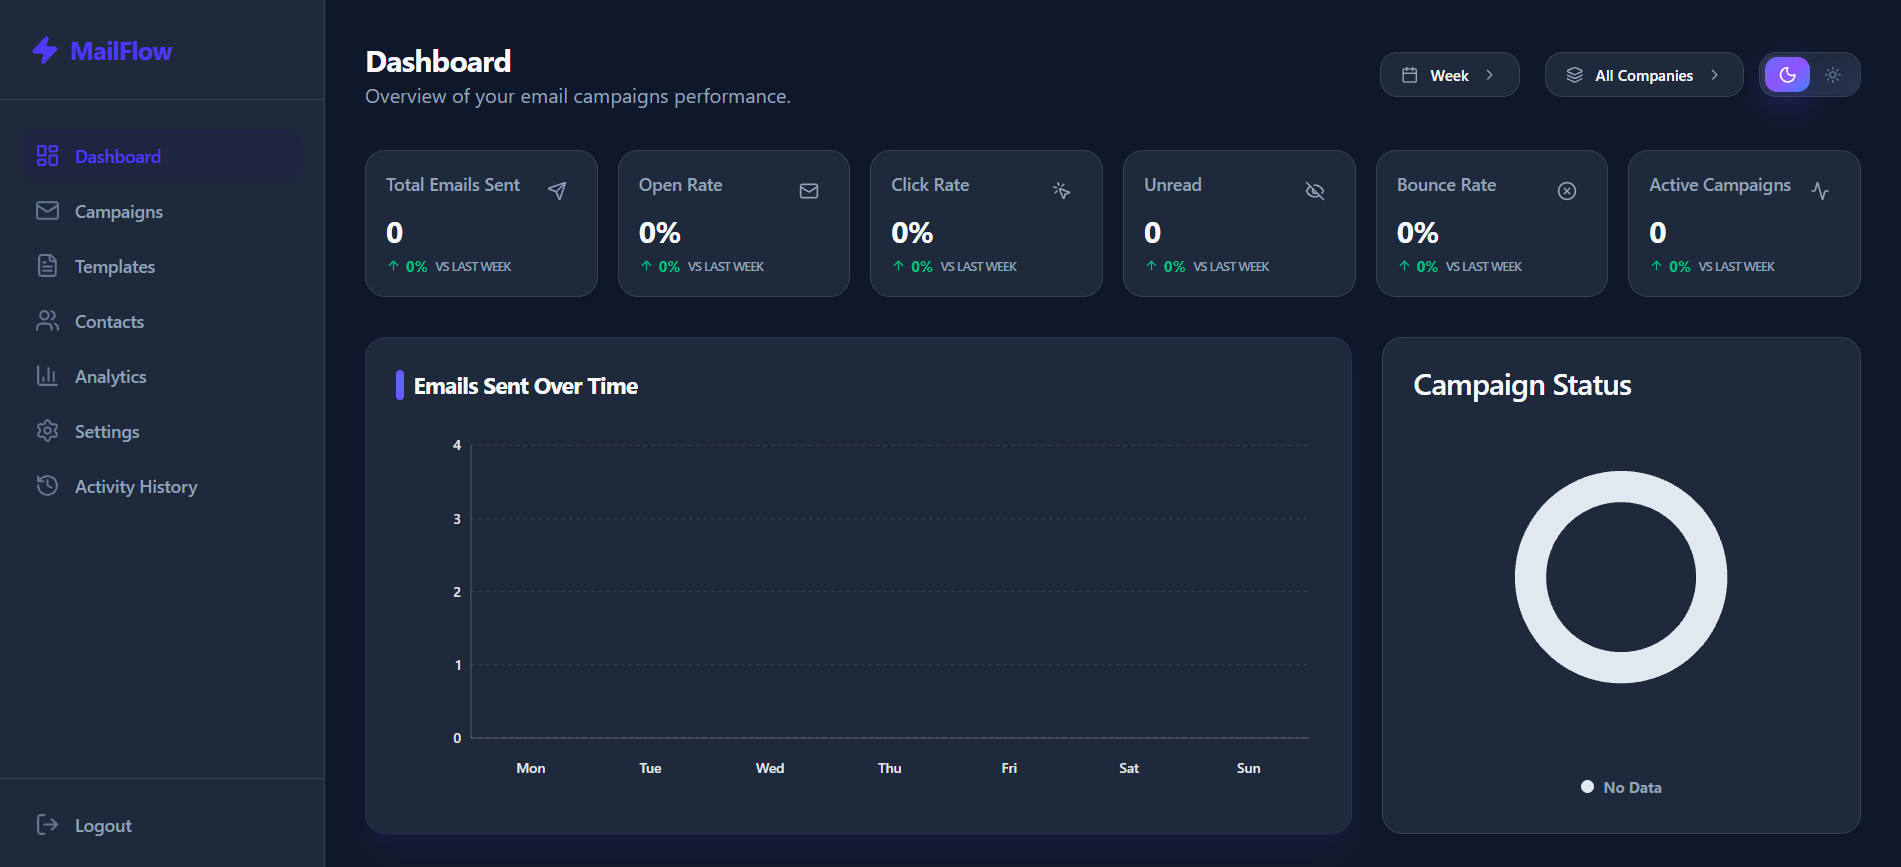
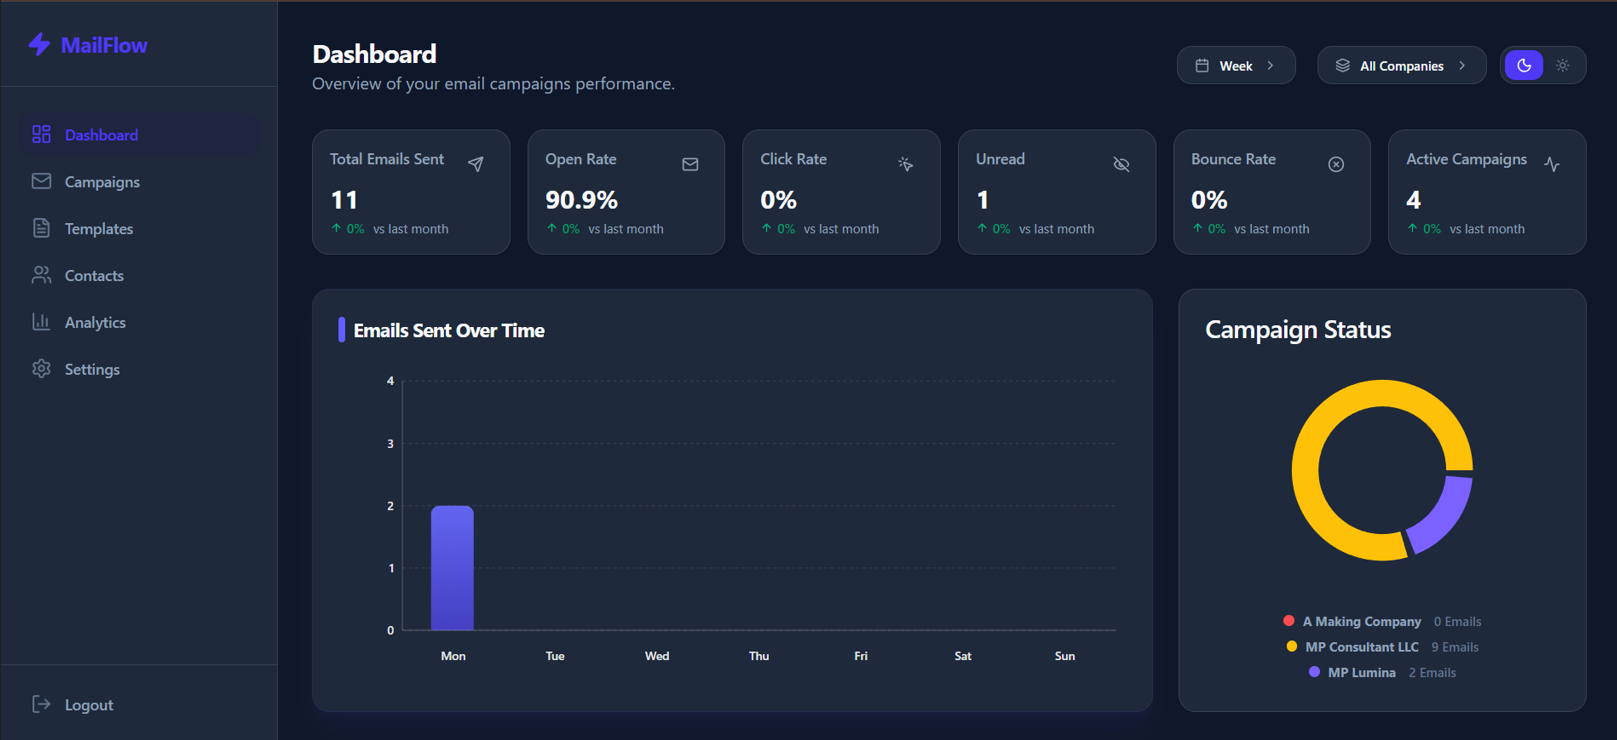
Apply portfolio reference theme and project screenshots

diff --git a/src/main.jsx b/src/main.jsx
@@ -6,7 +6,7 @@ import "./styles.css";
 
 const projects = [
   { id:"social-media-growth-ai", number:"01", category:"AI PRODUCT · SOCIAL MEDIA", title:"Social Media Growth AI", subtitle:"A focused workspace for planning and reviewing content across multiple clients.", description:"A multi client dashboard that brings content planning, AI assisted drafting and client activity into one practical workflow.", challenge:"Social media work across several clients often spreads planning, drafts and progress tracking across disconnected tools. Teams need a clear shared view and a review step before content goes live.", approach:["Designed a multi client dashboard for planning, content drafts and activity monitoring.","Built Python and LangGraph workflows to support content research and generation.","Added a human review step so suggested content can be refined before publishing.","Organized client level progress and growth signals in one workspace."], stack:["Python","LangGraph","LLM APIs","React","REST APIs"], outcome:"A single workflow concept connecting planning, AI assisted drafting and human review, with client level visibility.", link:"https://brain-growth-dashboard.vercel.app/", visual:"social", image:"/social-growth-light.png", darkImage:"/social-growth-dark.png", imageAlt:"BrainGrow AI social media growth dashboard in light and dark themes" },
-  { id:"restaurant-cafe-assistant", number:"02", category:"CONVERSATIONAL PRODUCT · HOSPITALITY", title:"Restaurant and Cafe Assistant", subtitle:"A natural booking conversation with a clear path for staff review.", description:"A conversational reservation experience that helps guests explain their request and gives administrators a place to review it.", challenge:"Booking forms can make it hard to express timing and seating needs. Staff also need a reliable way to review and manage incoming requests.", approach:["Created a customer facing conversation for natural language reservation requests.","Structured booking details so the request can be reviewed clearly.","Designed an admin workflow for reviewing and managing reservations."], stack:["Conversational AI","LLM integration","API integration","React"], outcome:"A clear guest conversation paired with an administrative review flow.", link:"https://frontend-nu-seven-99.vercel.app/", visual:"chat" },
+  { id:"restaurant-cafe-assistant", number:"02", category:"CONVERSATIONAL PRODUCT · HOSPITALITY", title:"Restaurant and Cafe Assistant", subtitle:"A natural booking conversation with a clear path for staff review.", description:"A conversational reservation experience that helps guests explain their request and gives administrators a place to review it.", challenge:"Booking forms can make it hard to express timing and seating needs. Staff also need a reliable way to review and manage incoming requests.", approach:["Created a customer facing conversation for natural language reservation requests.","Structured booking details so the request can be reviewed clearly.","Designed an admin workflow for reviewing and managing reservations."], stack:["Conversational AI","LLM integration","API integration","React"], outcome:"A clear guest conversation paired with an administrative review flow.", link:"https://frontend-nu-seven-99.vercel.app/", visual:"chat", image:"/restaurant-cafe-customer.png", gallery:["/restaurant-cafe-customer.png","/restaurant-cafe-admin.png"], imageAlt:"Restaurant reservation assistant customer interface and admin dashboard" },
   { id:"email-automation-system", number:"03", category:"FULL STACK · AUTOMATION", title:"Email Automation System", subtitle:"Scheduled outreach and follow ups managed in one place.", description:"A web application for organizing email outreach, recurring messages and follow up sequences with SMTP delivery.", challenge:"Outreach sequences need consistent timing and follow up. When scheduling and delivery are handled in separate places, it becomes difficult to keep track of what is due.", approach:["Built a full stack system for email outreach and recurring schedules.","Integrated SMTP delivery for outgoing messages.","Added a centralized workflow for managing outreach and follow ups."], stack:["React","Node.js","MongoDB","SMTP"], outcome:"A centralized email workflow with recurring scheduling and follow up support.", link:"https://email-automation-system-phi.vercel.app/", visual:"mail", image:"/email-automation-dashboard.png", imageAlt:"MailFlow email campaign dashboard" },
   { id:"customer-care-portal", number:"04", category:"PRODUCT DESIGN · ENTERPRISE", title:"Customer Care Portal", subtitle:"Connected views for customer operations and after sales support.", description:"A product design concept for customer and admin experiences across enquiries, CRM, fulfilment, logistics and after sales support.", challenge:"Customer operations move between enquiries, orders, logistics and claims. Teams need a consistent way to understand the current request and its next step.", approach:["Designed customer and admin dashboards for enquiries and lead management.","Mapped order fulfilment and logistics tracking into the wider support experience.","Included complaint, warranty and claims workflows."], stack:["Product design","UI and UX","CRM workflows","Enterprise dashboards"], outcome:"A connected dashboard concept covering key customer care and order support touchpoints.", link:"", visual:"dashboard" }
 ];
@@ -21,7 +21,7 @@ function Footer(){return <footer className="footer"><span>© 2026 Priyanshu Loha
 function Page({eyebrow,title,children}){return <main className="page"><div className="page-heading"><span className="eyebrow">{eyebrow}</span><h1>{title}</h1></div>{children}</main>}
 function Home(){return <main><section className="hero"><div className="hero-copy"><span className="eyebrow"><i/> AI application developer · India</span><h1>Thoughtful software<br/>for <span>everyday work.</span></h1><p>I’m Priyanshu, a developer working across AI applications, workflow automation and full stack products. I like making complex ideas clear and useful.</p><div className="hero-actions"><Link className="button primary" to="/work">Explore my work <ArrowRight size={17}/></Link><Link className="button secondary" to="/about">More about me</Link></div><div className="hero-location"><MapPin size={15}/> Ahmedabad / Rajasthan, India <span>·</span> Open to remote opportunities</div></div><div className="portrait-wrap"><div className="portrait-frame"><img src="/priyanshu-lohar.jpg" alt="Priyanshu Lohar wearing a navy suit"/></div><div className="portrait-caption"><span>Priyanshu Lohar</span><span>Building useful digital products</span></div><div className="portrait-accent"/></div></section><section className="home-work"><div className="section-top"><div><span className="eyebrow">SELECTED WORK</span><h2>A few things I’ve built.</h2></div><Link className="arrow-link" to="/work">All projects <ArrowRight size={16}/></Link></div><ProjectGrid items={projects.slice(0,3)}/></section><section className="home-note"><span className="eyebrow">HOW I WORK</span><p>Clear problems. Considered details.<br/><span>Software people can actually use.</span></p><Link className="arrow-link" to="/about">Get to know me <ArrowRight size={16}/></Link></section></main>}
 function About(){return <Page eyebrow="ABOUT" title="A little about me."><div className="prose"><p className="lead">I enjoy turning complex ideas into practical digital experiences, especially when intelligent systems can make everyday work simpler.</p><p>I’m a Computer Science graduate with experience across full stack development, business operations and hands on projects in Generative AI and workflow automation.</p><p>My work brings together Python, LangGraph, LLM integrations and web technologies. I’m interested in useful AI powered applications with thoughtful user experiences and clear human oversight.</p><div className="about-facts"><div><span>FOCUS</span><strong>AI applications and product development</strong></div><div><span>BASED IN</span><strong>India · Open to remote work</strong></div><div><span>APPROACH</span><strong>Practical, collaborative and curious</strong></div></div><Link className="button primary" to="/contact">Get in touch <ArrowRight size={17}/></Link></div></Page>}
-function ProjectVisual({project,compact=false}){if(project.image)return <div className={`project-art art-${project.visual}${compact?" compact":""}`}><img src={project.image} alt={project.imageAlt}/></div>;return <div className={`project-art art-${project.visual}`} aria-hidden="true"><div className="art-window"><span/><span/><span/><b>{project.visual==="chat"?"reservation request":"customer overview"}</b><div className="art-content"><i/><i/><i/><i/></div></div></div>}
+function ProjectVisual({project,compact=false}){if(project.image)return <div className={`project-art art-${project.visual}${compact?" compact":""}${project.gallery&&!compact?" image-gallery":""}`}>{(project.gallery&&!compact?project.gallery:[project.image]).map((src,i)=><img key={src} src={src} alt={project.gallery?`${project.title} ${i===0?"customer booking interface":"restaurant admin dashboard"}`:project.imageAlt}/>)}</div>;return <div className={`project-art art-${project.visual}`} aria-hidden="true"><div className="art-window"><span/><span/><span/><b>{project.visual==="chat"?"reservation request":"customer overview"}</b><div className="art-content"><i/><i/><i/><i/></div></div></div>}
 function ProjectGrid({items=projects}){return <div className="project-grid">{items.map(p=><Link className="project-card" key={p.id} to={`/work/${p.id}`}><ProjectVisual project={p} compact/><div className="project-meta"><span>{p.number} · {p.category}</span><ArrowUpRight size={17}/></div><h3>{p.title}</h3><p>{p.subtitle}</p><span className="card-more">View project overview <ArrowRight size={15}/></span></Link>)}</div>}
 function Work(){return <Page eyebrow="PORTFOLIO" title="Selected projects."><p className="page-intro">A closer look at the products, workflows and interfaces I’ve worked on. Open any project for its full overview.</p><ProjectGrid/></Page>}
 function ProjectDetail(){const {slug}=useParams();const project=projects.find(p=>p.id===slug);const [dark,setDark]=React.useState(false);if(!project)return <Page eyebrow="PROJECT" title="Project not found."><Link className="arrow-link" to="/work">Back to all projects <ArrowRight size={16}/></Link></Page>;return <main className={`detail-page${dark?" project-dark":""}`}><Link className="back-link" to="/work">← All projects</Link><div className="detail-heading"><span className="eyebrow">{project.number} / {project.category}</span><h1>{project.title}</h1><p>{project.subtitle}</p></div><div className="project-view-toolbar"><span>PROJECT PREVIEW</span><div><button className={!dark?"selected":""} onClick={()=>setDark(false)}>Light</button>{project.darkImage&&<button className={dark?"selected":""} onClick={()=>setDark(true)}>Dark</button>}</div></div><div className="detail-visual"><ProjectVisual project={{...project,image:dark&&project.darkImage?project.darkImage:project.image}}/></div><div className="detail-layout"><article className="detail-copy"><section><span className="eyebrow">OVERVIEW</span><p className="lead">{project.description}</p></section><section><span className="eyebrow">THE CHALLENGE</span><p>{project.challenge}</p></section><section><span className="eyebrow">APPROACH</span><ul>{project.approach.map(a=><li key={a}>{a}</li>)}</ul></section><section><span className="eyebrow">OUTCOME</span><p>{project.outcome}</p></section><section><span className="eyebrow">TOOLS AND FOCUS</span><div className="chips">{project.stack.map(t=><span key={t}>{t}</span>)}</div></section>{project.link&&<a className="button primary" href={project.link} target="_blank" rel="noreferrer">Open live project <ExternalLink size={16}/></a>}</article><aside className="detail-aside"><span>PROJECT DETAILS</span><div><small>TYPE</small><b>{project.category}</b></div><div><small>ROLE</small><b>Product development and implementation</b></div><div><small>STACK</small><b>{project.stack.slice(0,3).join(", ")}</b></div></aside></div><div className="next-project"><span className="eyebrow">MORE WORK</span><ProjectGrid items={projects.filter(p=>p.id!==project.id).slice(0,2)}/></div></main>}

diff --git a/src/styles.css b/src/styles.css
@@ -6,3 +6,5 @@
 .project-art:has(img){position:relative;padding:10px;background:#e8edf1}.project-art img{display:block;width:100%;height:100%;object-fit:cover;object-position:top center;transition:transform .65s cubic-bezier(.22,1,.36,1),filter .35s}.project-card:hover .project-art img{transform:scale(1.035)}.project-art.compact{height:205px}.art-social:has(img){background:#e9eaf4}.art-mail:has(img){background:#e5eaf2}.detail-visual{height:auto;min-height:230px;padding:20px;background:#172235;display:grid;place-items:center;overflow:hidden}.detail-visual .project-art{width:100%;height:auto;max-height:620px;display:grid;place-items:center;padding:0;background:transparent}.detail-visual .project-art img{height:auto;max-height:620px;width:100%;object-fit:contain;object-position:center;box-shadow:0 14px 40px #10182735}.project-view-toolbar{display:flex;justify-content:space-between;align-items:center;margin-top:25px;padding:12px 14px;background:#f0f1ee;color:#596772;font-size:9px;font-weight:600;letter-spacing:.12em}.project-view-toolbar>div{display:flex;gap:5px}.project-view-toolbar button{border:0;padding:7px 12px;background:transparent;color:#64717a;font:500 11px inherit;cursor:pointer}.project-view-toolbar button.selected{background:#fff;color:#24303b;box-shadow:0 1px 4px #1420331c}.project-dark{background:#131b29;color:#eaf0f7;box-shadow:0 0 0 100vmax #131b29;clip-path:inset(0 -100vmax)}.project-dark .detail-heading>p,.project-dark .detail-copy>section>p,.project-dark .detail-copy li{color:#bbc5d1}.project-dark .detail-heading .eyebrow,.project-dark .detail-copy .eyebrow{color:#a9b8cc}.project-dark .detail-aside{background:#1c2738;border-color:#344258}.project-dark .detail-aside b,.project-dark .detail-aside>span,.project-dark .detail-aside small{color:#c8d3df}.project-dark .chips span{background:#26354a;color:#d4deea}.project-dark .project-view-toolbar{background:#202d40;color:#c4d0df}.project-dark .project-view-toolbar button{color:#b6c3d4}.project-dark .project-view-toolbar button.selected{background:#35465e;color:#fff}.project-dark .detail-visual{background:#0d1420}.project-dark .back-link{color:#a7c8ed}.hero-copy{animation:rise-in .7s cubic-bezier(.22,1,.36,1) both}.portrait-wrap{animation:portrait-in .85s .1s cubic-bezier(.22,1,.36,1) both}.page-heading,.detail-heading{animation:rise-in .55s cubic-bezier(.22,1,.36,1) both}.project-card{animation:rise-in .55s cubic-bezier(.22,1,.36,1) both;animation-delay:calc(var(--card-index,0)*70ms)}.project-card:nth-child(2){--card-index:1}.project-card:nth-child(3){--card-index:2}.project-card:nth-child(4){--card-index:3}.detail-visual img{animation:screen-in .7s .08s cubic-bezier(.22,1,.36,1) both}.button,.header-cta,.arrow-link{transition:transform .24s cubic-bezier(.22,1,.36,1),background-color .24s,color .24s}.button:hover,.arrow-link:hover{transform:translateY(-2px)}@keyframes rise-in{from{opacity:0;transform:translateY(16px)}to{opacity:1;transform:translateY(0)}}@keyframes portrait-in{from{opacity:0;transform:translateY(18px) scale(.985)}to{opacity:1;transform:translateY(0) scale(1)}}@keyframes screen-in{from{opacity:0;transform:translateY(12px) scale(.99)}to{opacity:1;transform:translateY(0) scale(1)}}
 @media(max-width:650px){.project-art.compact{height:205px}.detail-visual{padding:9px;min-height:150px}.detail-visual .project-art img{max-height:none}.project-view-toolbar{margin-top:20px}}
 @media(prefers-reduced-motion:reduce){.hero-copy,.portrait-wrap,.page-heading,.detail-heading,.project-card,.detail-visual img{animation:none!important}.project-card:hover .project-art img{transform:none}}
+:root{--blue:#755832;--line:#e9e0d1;--paper:#fbf8f1;--soft:#f3ecdf;--gold:#b78a42;--dark:#28231d}.header{border-bottom-color:#e8dece}.brand-monogram{border-color:#d9cdb8;color:#896a38}.header nav a:hover,.header nav a.active,.header-cta,.arrow-link,.project-meta svg,.card-more{color:#80623b}.primary{background:#302d27}.primary:hover{background:#5d4b31}.secondary{border-color:#d8cbb8;color:#594b38}.hero h1 span,.home-note>p span{color:#a47a35}.eyebrow{color:#88734e}.eyebrow i{background:#a8a081}.home-note{background:#f3ecdf}.project-art{background:#e9e2d5}.art-social:has(img){background:#e9e6f3}.art-mail:has(img){background:#e4e8f0}.skill-card,.detail-aside{background:#fffdf8;border-color:#e9e0d1}.chips span{background:#f2ece1;color:#615746}.portrait-accent{border-color:#d8c7a8}.hero-location svg,.contact-list svg{color:#927348}.footer{border-color:#e9e0d1}.image-gallery{display:grid!important;grid-template-columns:minmax(0,.58fr) minmax(0,1fr);gap:14px;align-items:center;padding:16px!important}.detail-visual .image-gallery img{width:100%;height:auto;max-height:570px;object-fit:contain;object-position:center;box-shadow:0 15px 35px #17171730}.detail-visual .image-gallery img:first-child{max-height:540px}.project-art.compact.image-gallery{display:block!important;padding:0!important}.project-art.compact.image-gallery img{width:100%;height:100%;object-fit:cover;object-position:top center}.project-card:hover .project-art:has(img){box-shadow:0 12px 28px #322b2019}.detail-page .back-link{color:#8a6a39}.project-dark .detail-visual .image-gallery img{box-shadow:0 14px 40px #05070b70}
+@media(max-width:650px){.image-gallery{grid-template-columns:minmax(0,.52fr) minmax(0,1fr);gap:6px;padding:5px!important}.detail-visual .image-gallery img,.detail-visual .image-gallery img:first-child{max-height:230px}.project-art.compact.image-gallery{display:block!important}}
